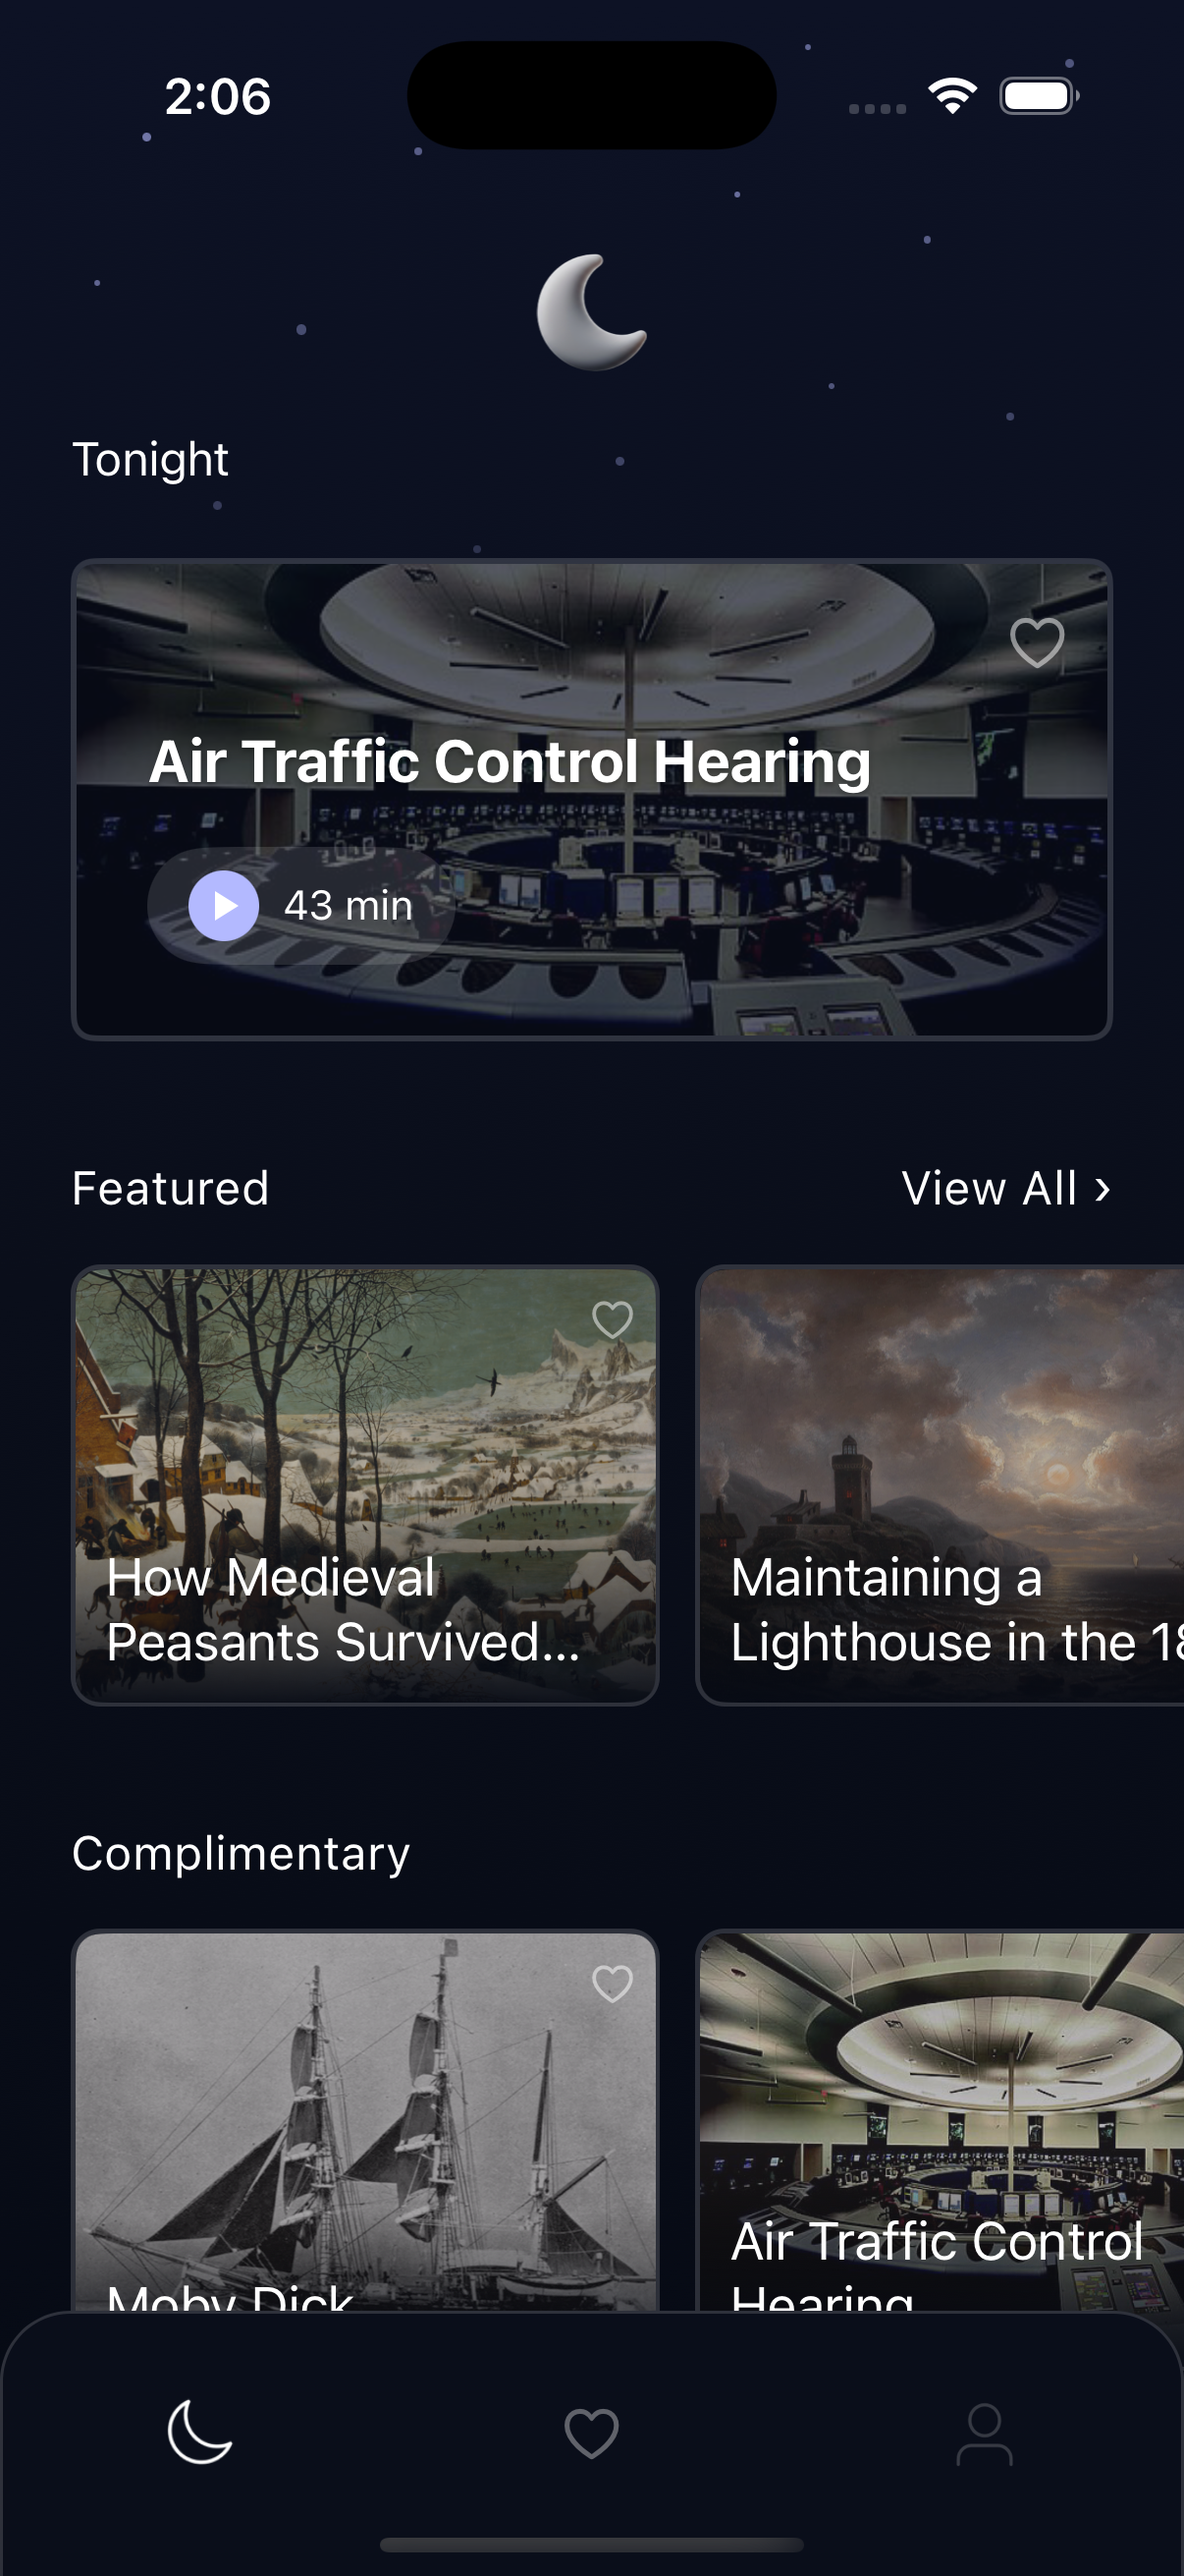
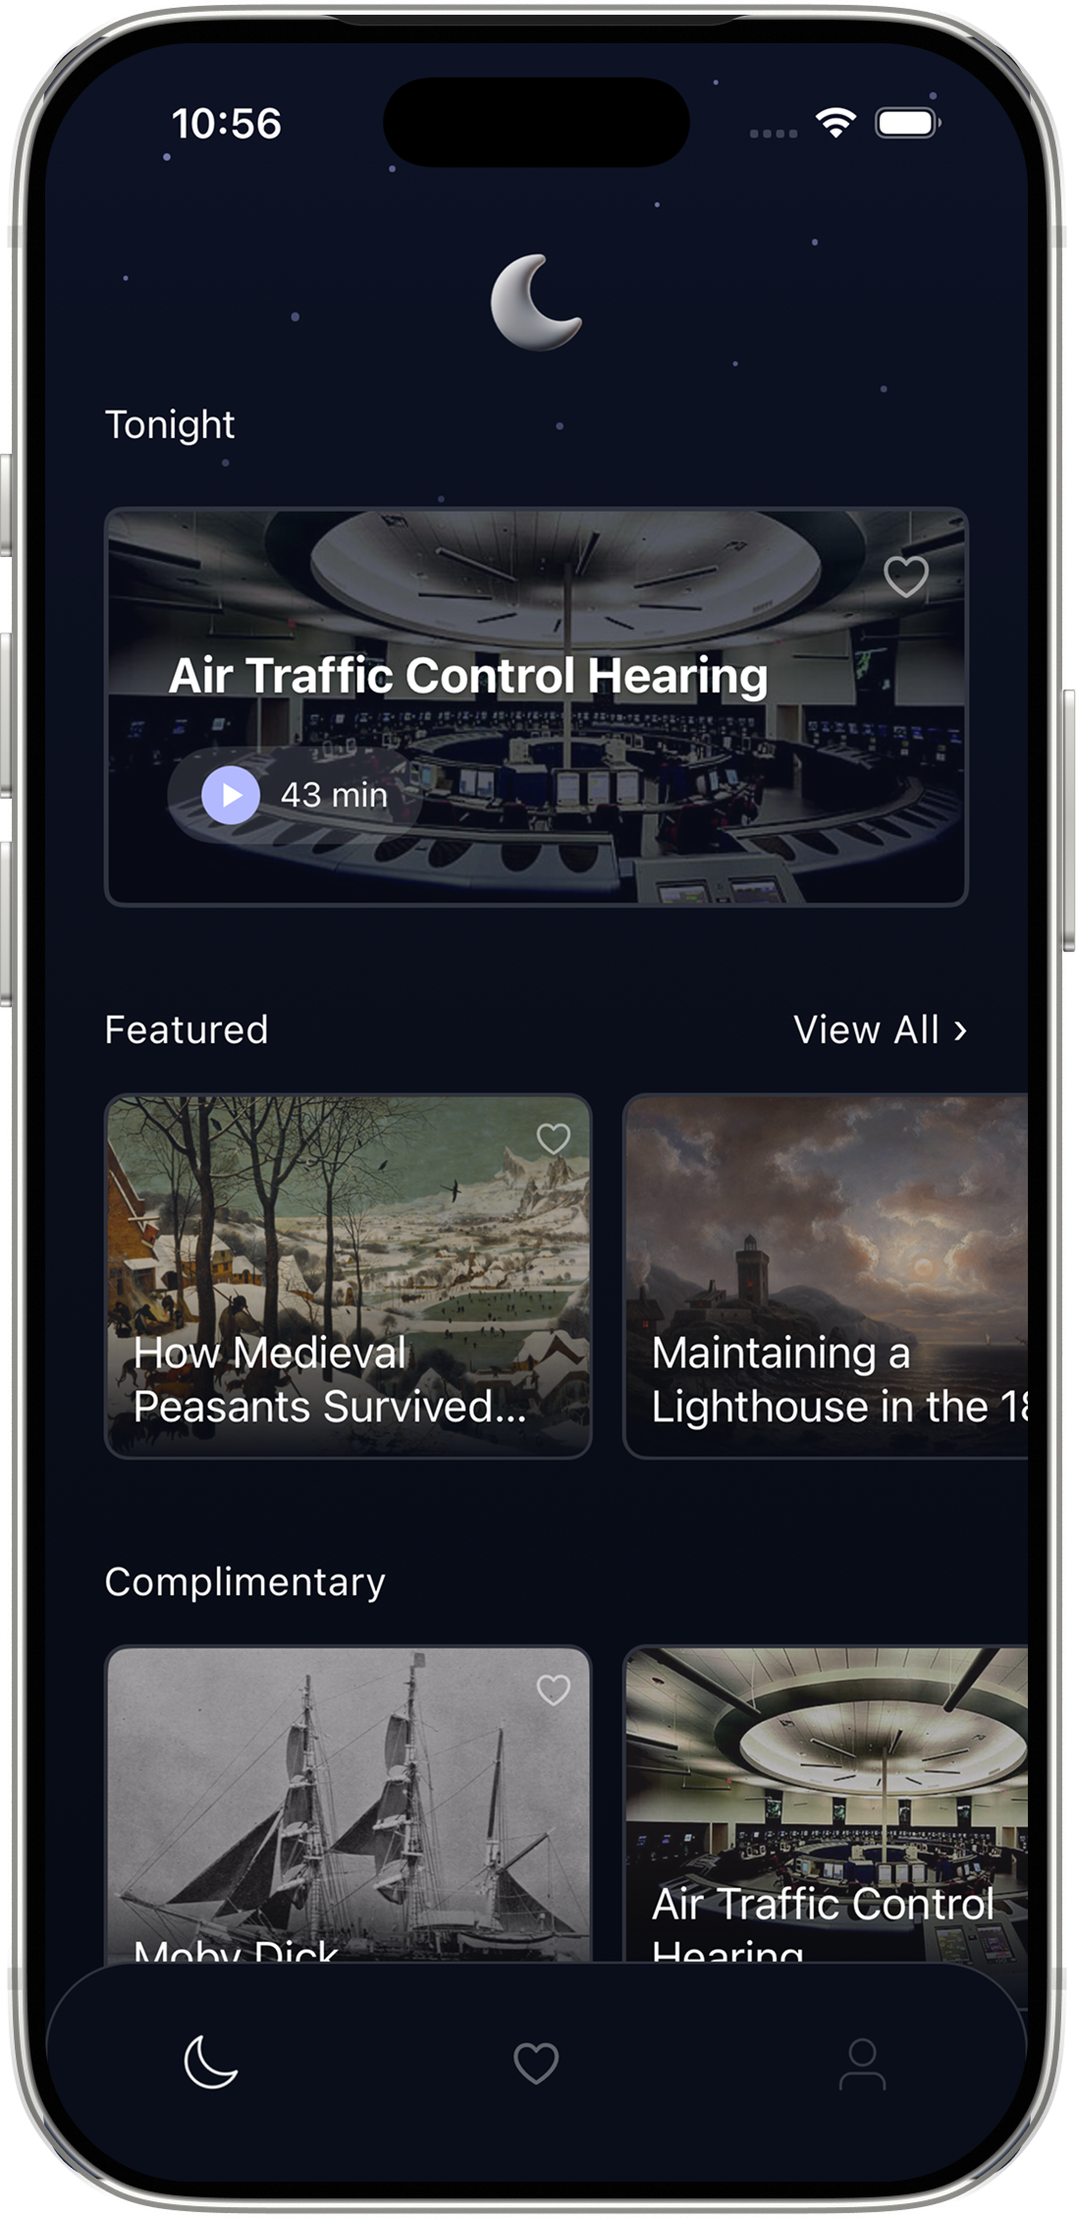
feat: update app screenshot and remove border/cropping
Replace app screenshot with new image, remove black border, and change
objectFit from cover to contain to show the full image.

diff --git a/components/AppPreview.tsx b/components/AppPreview.tsx
@@ -39,8 +39,8 @@ export default function AppPreview({
           height={1248}
           priority
           quality={90}
-          className={`absolute inset-0 drop-shadow-2xl w-full h-full ${borderRadius} border-4 border-black`}
-          style={{ objectFit: 'cover' }}
+          className={`absolute inset-0 drop-shadow-2xl w-full h-full ${borderRadius} `}
+          style={{ objectFit: 'contain' }}
         />
       </Link>
     </div>
